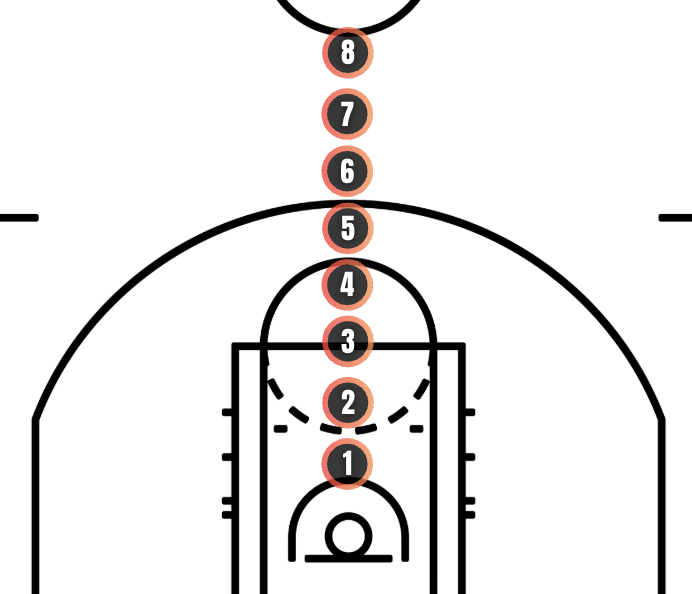
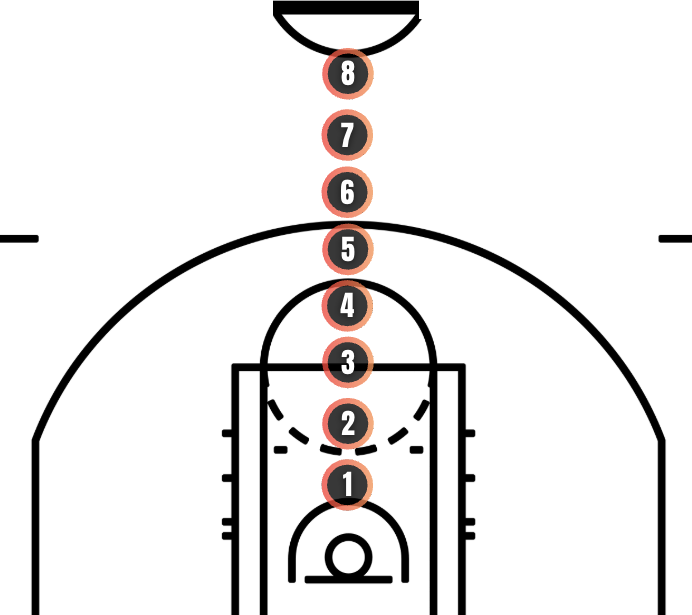
Update setup documentation, replace hub asset, and clean up hub page code
Replit-Commit-Author: Agent

diff --git a/client/src/pages/hub.tsx b/client/src/pages/hub.tsx
@@ -1686,7 +1686,6 @@ export default function HubPage() {
                         src={dayTwoCourtImageCropped}
                         alt="Basketball half court with shooting positions numbered one through eight"
                         className="pointer-events-none absolute right-8 top-1/2 z-0 h-[185px] w-[210px] -translate-y-1/2 object-contain opacity-75 mix-blend-multiply sm:right-10 sm:h-[210px] sm:w-[240px]"
-                        style={{ maskImage: "linear-gradient(to right, transparent 0%, black 32%)", WebkitMaskImage: "linear-gradient(to right, transparent 0%, black 32%)" }}
                       />
                       <span className="relative z-10 max-w-[68%] min-w-0 pr-2">
                         <span className="block font-heading text-3xl font-black uppercase leading-none tracking-tight sm:text-4xl">Workout <span className="text-orange-600">#2</span></span>

diff --git a/.agents/memory/first-run-setup-lead-magnet.md b/.agents/memory/first-run-setup-lead-magnet.md
@@ -10,7 +10,7 @@ Day 2 keeps the same scheduled-day header, marks Day 1 complete, highlights Day 
 
 ### Day 2 workout-card composition
 
-Keep the supplied court artwork large on the right side of the workout card and blend it into the off-white card background instead of placing it in a separate white tile. Crop away its thick perimeter border for the card thumbnail, and render it about 1.5 times larger than the original small thumbnail. Keep the workout icon separate at the top-right, to the right of the artwork; retain the bold divider and bottom preview action. The Coach P starter prompt should have a clean, unboxed basketball icon.
+Keep the supplied court artwork large on the right side of the workout card and blend it into the off-white card background instead of placing it in a separate white tile. Crop away its thick perimeter border for the card thumbnail, render it about 1.5 times larger than the original small thumbnail, and preserve the complete half-court arc without fading the art's left side. Keep the workout icon separate at the top-right, to the right of the artwork; retain the bold divider and bottom preview action. The Coach P starter prompt should have a clean, unboxed basketball icon.
 
 **Why:** the user rejected tiny boxed court thumbnails, overlap with the workout icon, and cramped prompt styling.
 
